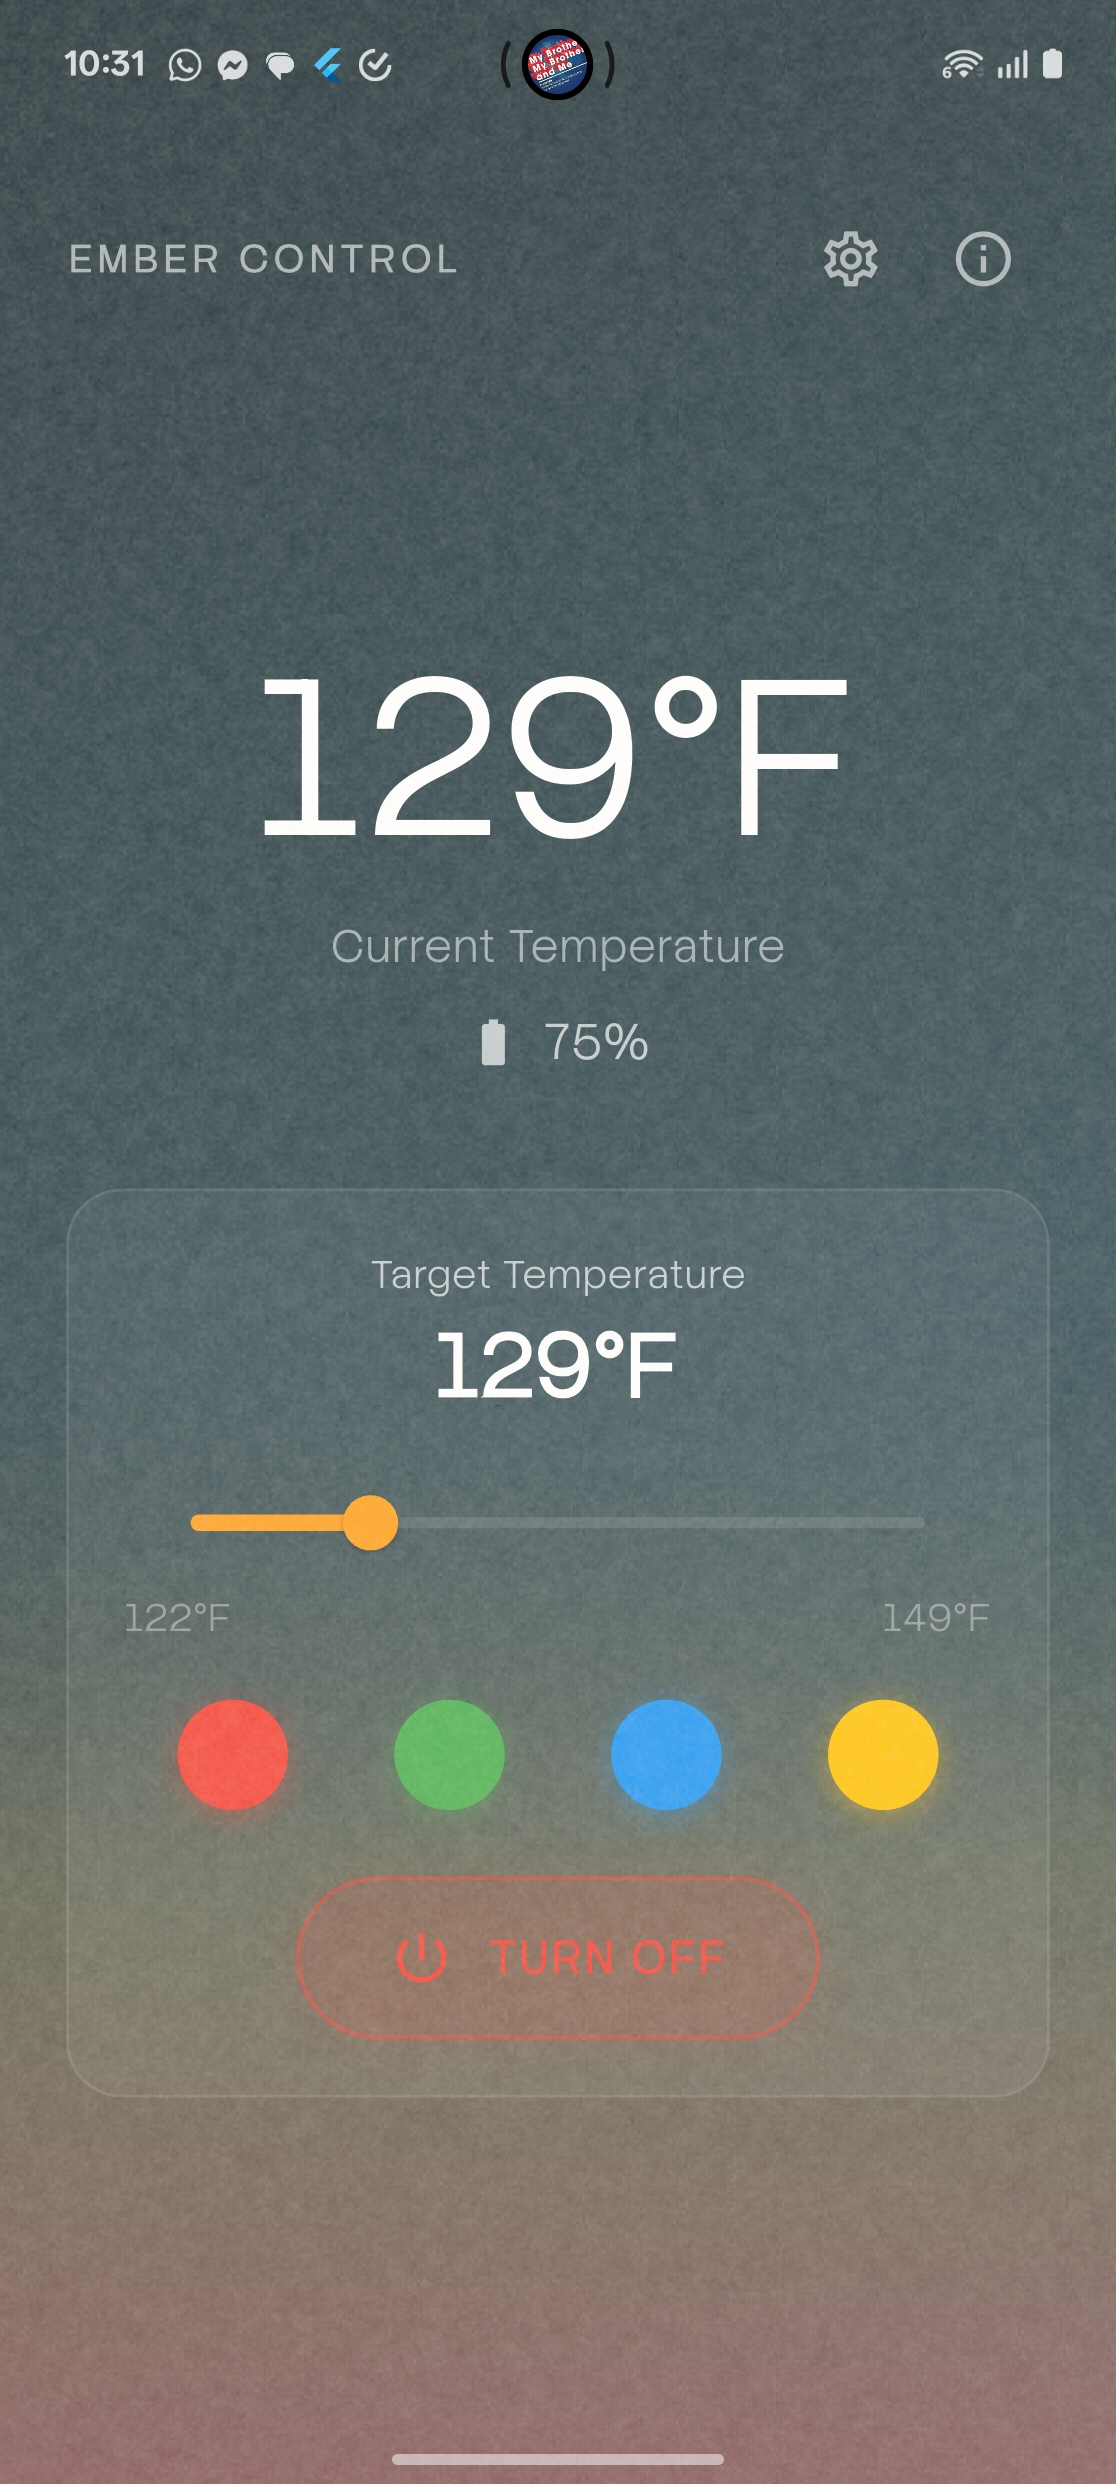
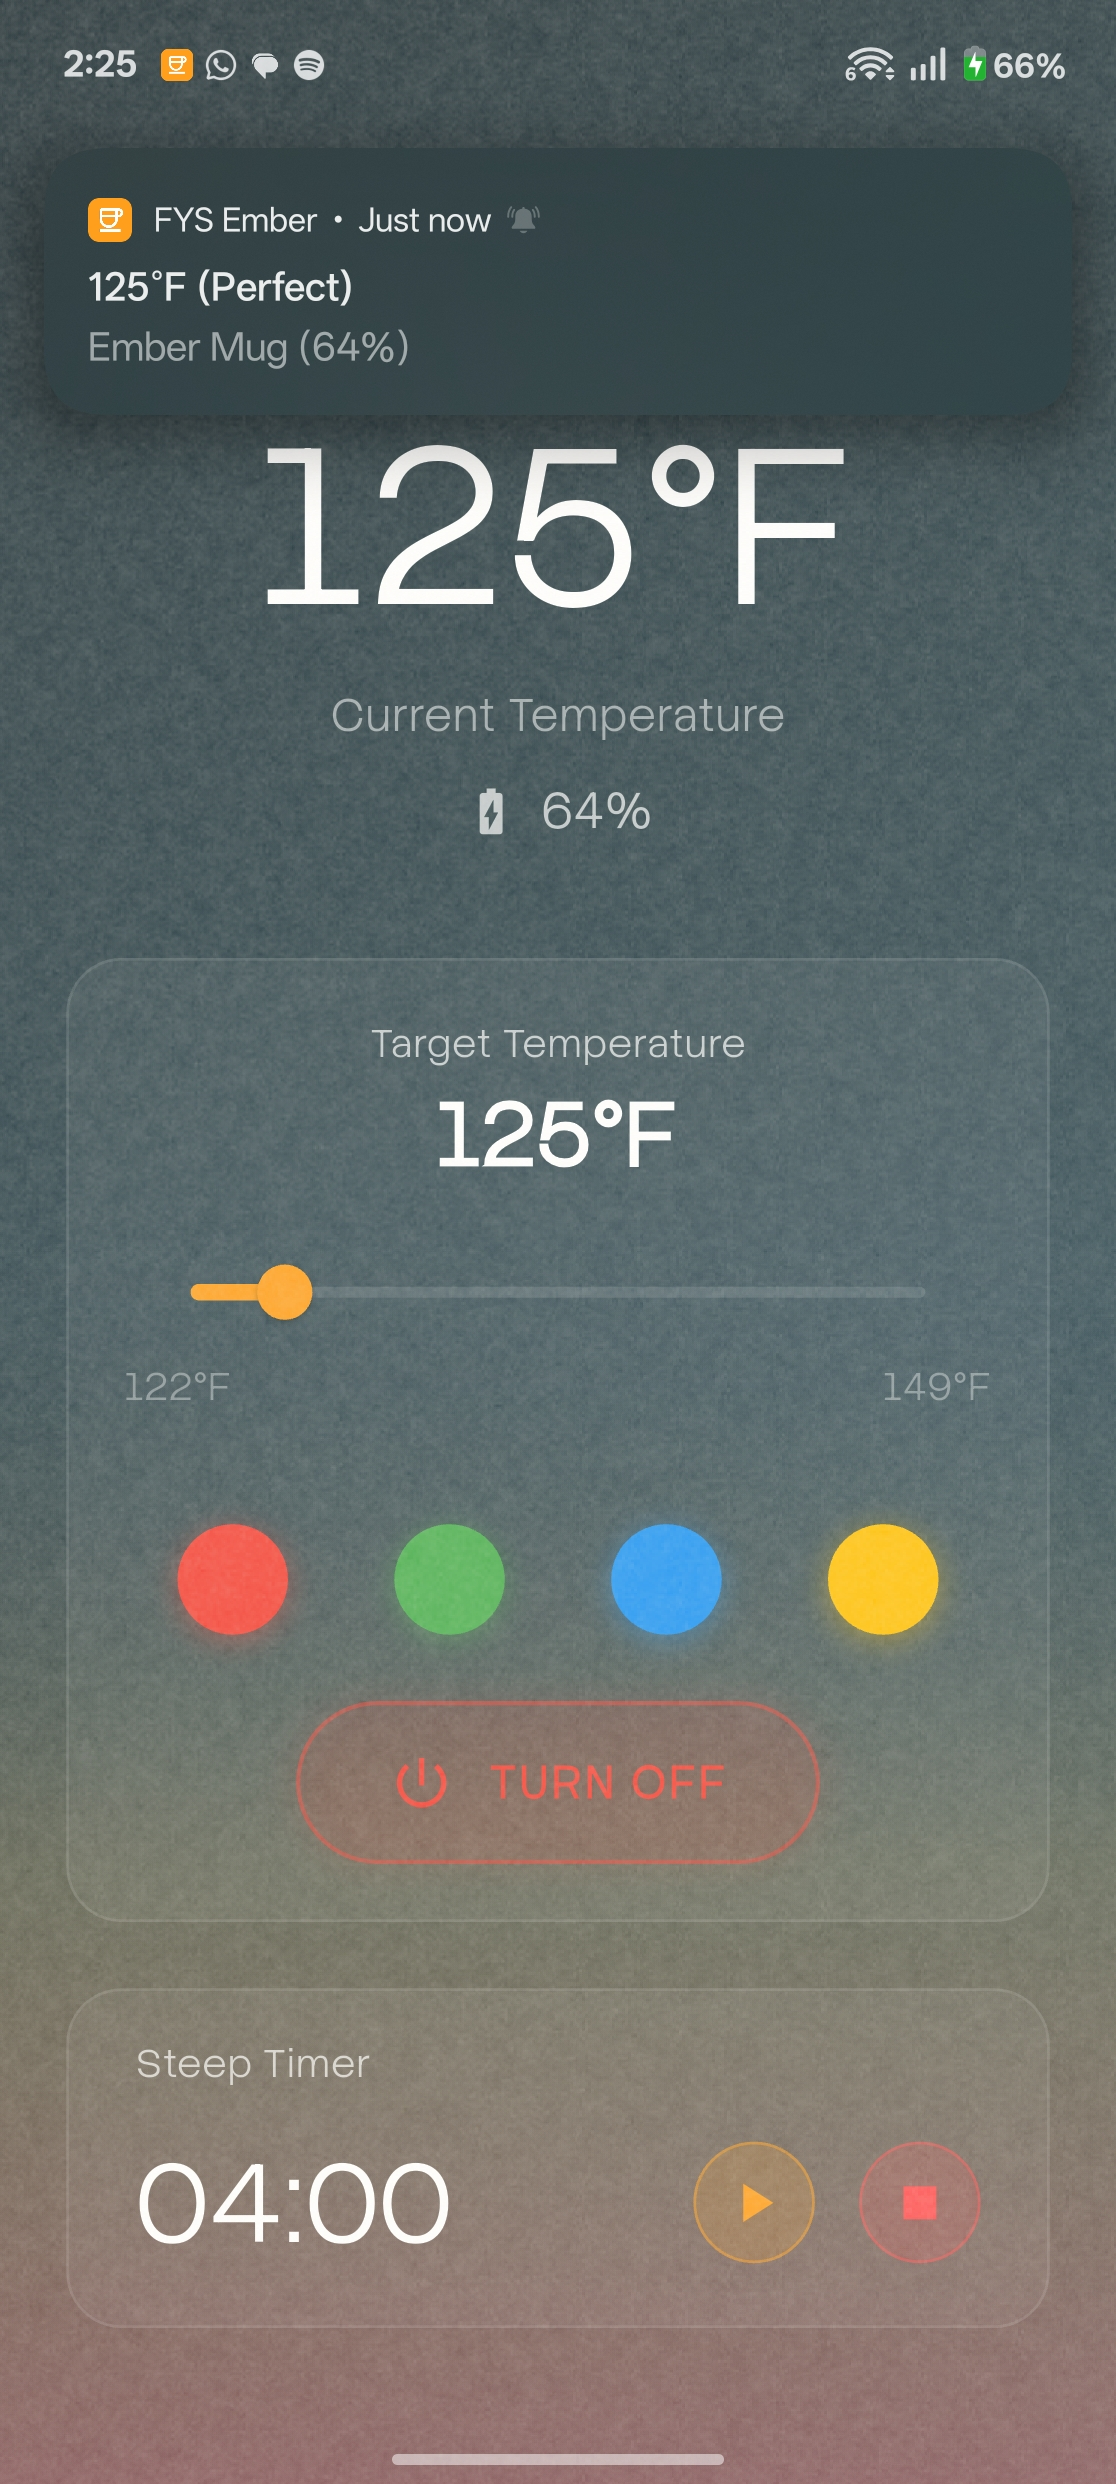
new ss and readme

diff --git a/README.md b/README.md
@@ -2,7 +2,7 @@
 
 # Fix Ur Shit Ember
 
-A Modern, Feature-Rich Control App for Ember Mugs, built with Flutter.
+A functional replacement app for the Ember Mug, built with Flutter.
 
 <p align="center">
   <img src="on.jpg" width="45%" alt="Heating On" />
@@ -11,27 +11,25 @@ A Modern, Feature-Rich Control App for Ember Mugs, built with Flutter.
 
 ## Features
 
-*   **Smart Connectivity**
-    *   **Auto-Connect:** Automatically finds and connects to your Ember Mug on launch.
-    *   **Robust BLE:** Enhanced Bluetooth Low Energy handling for stable connections.
-    *   **Auto-Reconnect:** Intelligent logic to recover lost connections.
+### Connection
+*   **Bluetooth Low Energy (BLE)**: Scans for and connects to Ember Mugs.
+*   **Auto-Scan**: Attempts to find the mug automatically on app startup.
 
-*   **Temperature Control**
-    *   **Live Monitoring:** Real-time display of current liquid temperature.
-    *   **Precise Control:** Easy-to-use slider to set your perfect drinking temperature.
-    *   **Heat Toggle:** One-tap button to turn heating on or off instantly.
-    *   **Smart Memory:** Remembers your last used target temperature.
+### Temperature Control
+*   **Read/Write**: View current liquid temperature and set a target temperature.
+*   **Range**: Supports temperature setting between 50°C - 65°C (122°F - 149°F).
+*   **Heating Toggle**: Manually turn the heater on or off. The app remembers the last used target temperature when turning heating back on.
+*   **Unit Support**: Switch between Celsius and Fahrenheit.
 
-*   **Intelligent Features**
-    *   **Empty Cup Detection:** Automatically turns off heating when the cup is empty to save battery.
-    *   **Battery Status:** View real-time battery percentage and charging status.
-    *   **Live Notifications:** persistent notification showing current temperature and status (Heading, Off, Perfect) so you don't have to open the app.
-    *   **LED Customization:** Change the LED color on your mug to match your mood.
+### Notifications & Indicators
+*   **Status Notification**: A persistent notification displays the current temperature, battery level, and heating status (e.g., "Heating", "Cooling", "Off") in the system tray.
+*   **Drink Ready Alert**: Sends a specific "Drink Ready" notification when the liquid reaches the target temperature.
+*   **Visual Indicator**: The Mug's LED pulses green for 60 seconds when the "Perfect" temperature is reached to provide a visual cue.
 
-*   **Premium Design**
-    *   **Modern Aesthetics:** Beautiful gradients and glassmorphism UI.
-    *   **Paper Texture:** Subtle texture overlay for a unique, organic feel.
-    *   **Visual Feedback:** Dynamic color changes based on heating state (Orange for heating, Blue for cooling/off).
+### Tools
+*   **Steep Timer**: A built-in timer (default 5 minutes) for tea steeping. Triggers a notification when the timer expires.
+*   **LED Color Picker**: Change the Ember Mug's LED indicator color.
+*   **Liquid Level**: Monitors liquid level to detect if the mug is empty. Automatically disables heating when empty to conserve battery.
 
 ## Disclaimer
 
